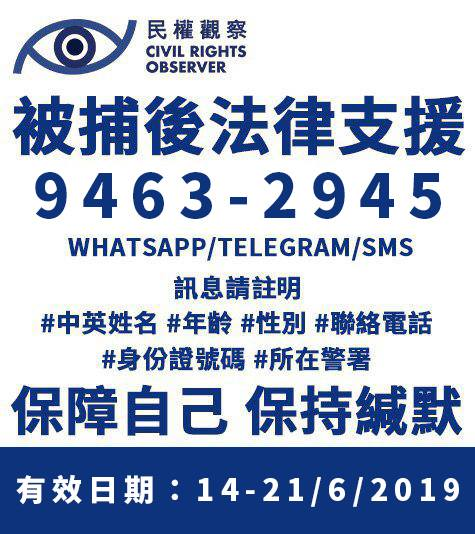
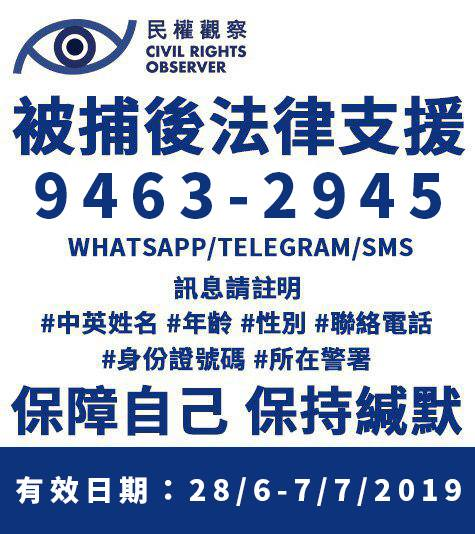
Update arrest section and add translated videos

Changed region(s): [[0.0295, 0.8689, 0.9726, 0.9588]]

diff --git a/index-jp.html b/index-jp.html
@@ -2,7 +2,7 @@
 function gtag(){dataLayer.push(arguments);}
 gtag('js', new Date());
 gtag('config', 'UA-82689420-5');
-</script></head><body><div id="fb-root" class="text-center"><script async defer crossorigin="anonymous" src="https://connect.facebook.net/en_US/sdk.js#xfbml=1&amp;version=v3.3"></script></div><div class="jumbotron text-light position-relative d-flex align-items-center"><div class="container"><h1 class="mb-2 text-center font-weight-bolder">この法律が審議を通過したら</h1><h1 class="mb-4 text-center font-weight-bolder">香港は終わりです</h1><div class="mb-3 text-center"><a href="/" class="btn btn-info py-1 mr-1">中文</a><a href="/index-en.html" class="btn btn-info py-1 mr-1">English</a><a href="/index-ko.html" class="btn btn-info py-1 mr-1">한국어</a></div><div class="text-center"><div data-href="https://www.facebook.com/g0vhk.io" data-width="" data-layout="button_count" data-action="like" data-size="large" data-show-faces="true" data-share="false" class="fb-like"></div></div><hr class="bg-white"><p class="text-justify">一度この「犯罪人引渡し条約」が審議を通過したら、香港人、そして<b><u>香港に滞在している誰もが</u></b>中国の法律によって取り締まられてしまいます。あなたが中国ではなく香港にいたとしても、です。あなたは人権を侵害され、不当に中国へ送られてしまうかもしれません。</p><div class="position-absolute d-flex flex-column align-items-center btn-scroll-down-wrapper"><div class="btn-scroll-down"><div class="chevron"></div><div class="chevron"></div><div class="chevron"></div></div><div class="text">下へスクロールしてね</div></div></div></div><div class="section section-why bg-info text-light"><div class="container"><div class="row"><div class="col-md-6 order-0 order-md-0"><h2 class="text-center">民間人権陣線 <br> 6.16 集会</h2></div><div class="col-md-6 order-2 order-md-0"><h2 class="text-center mt-5 mt-md-0">逮捕された場合の法律サポート</h2></div><div class="col-md-6 order-1 order-md-2"><img src="/img/616.png" class="w-100"></div><div class="col-md-6 order-4"><img src="/img/legal_support.jpg" class="w-100"></div></div></div></div><div class="section section-telegram bg-telegram text-light"><div class="inner"><div class="text-center"><h2>Telegram <img src="/img/telegram.png" width="128"></h2></div><div class="text-center"><a href="https://t.me/CivilHumanRightsFront" class="btn btn-warning link fa-icon">民間人権陣線情報チャンネル </a><a href="https://t.me/joinchat/AAAAAFKLi0fTZiWg0bGwjA" class="btn btn-warning link fa-icon">[反送中]Fact Check Channel </a><a href="https://t.me/hkSupport_bot" class="btn btn-warning link fa-icon">hkSupport</a><a href="https://t.me/g0vhk" class="btn btn-warning link fa-icon"> g0vhk</a></div></div></div><div class="section section-learn-more bg-danger py-4"><div class="text-center text-white">⬇⬇⬇ 関連情報</div></div><div class="section section-why bg-light"><div class="inner"><div class="text-center"><h2>中国への引き渡し条例に反対するべき理由</h2></div><p>中国への引き渡し条例改正案が可決されれば、香港で中国の法律を犯した場合に中国へ送還される可能性があります。つまり、香港在住者および香港に滞在する人々が不公平な裁判にかけられることになります。</p><ul><li>今回の改正案では、<b>企業やジャーナリスト、観光客を含めた香港に滞在する全ての人 </b>が対象となります。<ul><li>改正案が可決されれば、香港に滞在している全ての人たちが中国本土に送還される可能性があります。例えば、中国国家にとって不都合な報道をするジャーナリストが中国国内でPRC警察に捕まらずとも、香港に帰った際に逮捕され、中国本土へと送還される可能性があります。</li></ul></li><li>中国政府は<b>政治犯に対して、政治的な活動以外の容疑で拘束する </b>場合がほとんどです。<ul><li>政治的書籍を扱う銅鑼湾書店のオーナーである桂民海氏は交通事故の罪で起訴され、逮捕されました。</li><li>中国の現代美術家であり、社会評論家であるAi Weiwei氏は亡命を前にして、脱税の容疑で拘留されました。</li><li>中国の現代美術家であり、社会評論家であるアイ・ウェイウェイ氏は亡命を前にして、脱税の容疑で拘留されました。</li></ul></li><li>香港立法会の反体派の議員は、<b>公平な裁判 </b>が行われないことを理由として、送還について反対しています。</li><li>改正案が可決されたからといって、Chan Tong-kaiのような事例が無くなるわけではありません。</li><li>改正案が可決されても、陳同佳のような事例が無くなるわけではありません。<ul><li>台湾には殺人事件の容疑者を中国本土に引き渡す<b>義務</b>はありません。</li><li>香港から台湾に一時的または長期的に容疑者の引き渡しを要求することは原則的には可能です。行政院大陸委員会は今回の改正案が可決されれば、台湾人が香港への旅行/滞在時に中国へ引き渡される可能性があるとしています。今回の改正案が否決されるまでは台湾政府は陳同佳の引き渡しを要求しません。しかし、今回の改正案が可決されれば香港政府が陳氏を台湾に引き渡すことは不可能になってしまいます。</li></ul></li></ul></div></div><div class="section section-video bg-warning"><div class="inner"><div class="text-center"><h2>動画</h2></div><br><div class="row mb-5 pb-4"><div class="col-md col-12 mb-md-0 mb-3"><div style="background:url(img/video/video1.png) center center no-repeat #444;background-size:cover" class="media-preview"></div></div><div class="col-md col-12"><h4>八十後浪</h4><div class="sep light-dark gap-sm"></div><ul><li><a href="https://www.facebook.com/watch/?v=630724980778241" target="_blank" class="fa-icon">【香港人・六月九．立ち上がれ！】</a></li><li><a href="https://www.facebook.com/watch/?v=365026624364523" target="_blank" class="fa-icon">【香港人．六月九．立ち上がれ－法律篇（一）】</a></li><li><a href="https://www.facebook.com/watch/?v=2111174248981335" target="_blank" class="fa-icon">【香港人．六月九．立ち上がれ－法律篇（二）】</a></li><li><a href="https://www.facebook.com/watch/?v=612761825868585" target="_blank" class="fa-icon">【香港人・六月九・立ち上がれ－ビジネス篇】</a></li></ul></div></div><div class="row mb-5 pb-4"><div class="col-md col-12 mb-md-0 mb-3"><h4>思言財雋</h4><div class="sep light-dark gap-sm"></div><ul><li><a href="https://www.facebook.com/watch/?v=450338242396589" target="_blank" class="fa-icon">【思言財雋よりこの「犯罪人引渡し条例」に反対するデモ運動に参加するよう呼びかけています】</a></li></ul></div><div class="col-md col-12"><div style="background:url(img/video/thumbnail4.png) center center no-repeat #444;background-size:cover" class="media-preview"></div></div></div><div class="row"><div class="col-md col-12 mb-md-0 mb-3"><div style="background:url(img/video/thumbnail6.png) center center no-repeat #444;background-size:cover" class="media-preview"></div></div><div class="col-md col-12"><h4>法政匯思</h4><div class="sep light-dark gap-sm"></div><ul><li><a href="https://www.facebook.com/hkplg/videos/2511920872171931/" target="_blank" class="fa-icon">To international community in Hong Kong and around the world, we need you urgently!</a></li><li><a href="https://www.facebook.com/watch/?v=902872436725462" target="_blank" class="fa-icon">【China’s Trojan horse: Hong Kong’s new extradition arrangement puts foreigners at risk】</a></li></ul></div></div></div></div><div id="news" class="section section-news bg-dark text-light"><div class="container"><h1 class="text-center mb-0">最新情報</h1><p class="lead text-center mb-5"><a href="https://www.collaction.hk/s/extradition/objective" target="blank"><small>Powered by Collaction</small></a></p><div id="articles" class="pt-3"></div><div class="text-center"><button id="load-more" class="btn btn-sm btn-light">もっと見せて</button></div></div></div><div class="section section-petition bg-danger text-light"><div class="inner text-center"><script>fetch('https://sign-counter-prod-antiextradition-y3b3kusenf.web.kintohub.com/list?checked=true')
+</script></head><body><div id="fb-root" class="text-center"><script async defer crossorigin="anonymous" src="https://connect.facebook.net/en_US/sdk.js#xfbml=1&amp;version=v3.3"></script></div><div class="jumbotron text-light position-relative d-flex align-items-center"><div class="container"><h1 class="mb-2 text-center font-weight-bolder">この法律が審議を通過したら</h1><h1 class="mb-4 text-center font-weight-bolder">香港は終わりです</h1><div class="mb-3 text-center"><a href="/" class="btn btn-info py-1 mr-1">中文</a><a href="/index-en.html" class="btn btn-info py-1 mr-1">English</a><a href="/index-ko.html" class="btn btn-info py-1 mr-1">한국어</a></div><div class="text-center"><div data-href="https://www.facebook.com/g0vhk.io" data-width="" data-layout="button_count" data-action="like" data-size="large" data-show-faces="true" data-share="false" class="fb-like"></div></div><hr class="bg-white"><p class="text-justify">一度この「犯罪人引渡し条約」が審議を通過したら、香港人、そして<b><u>香港に滞在している誰もが</u></b>中国の法律によって取り締まられてしまいます。あなたが中国ではなく香港にいたとしても、です。あなたは人権を侵害され、不当に中国へ送られてしまうかもしれません。</p><div class="position-absolute d-flex flex-column align-items-center btn-scroll-down-wrapper"><div class="btn-scroll-down"><div class="chevron"></div><div class="chevron"></div><div class="chevron"></div></div><div class="text">下へスクロールしてね</div></div></div></div><div class="section section-why bg-info text-light"><div class="container"><div class="row"><div class="col-md-6 order-0 order-md-0"><h2 class="text-center">民間人権陣線 <br> 7.1 集会</h2></div><div class="col-md-6 order-2 order-md-0"><h2 class="text-center mt-5 mt-md-0">逮捕された場合の法律サポート</h2></div><div class="col-md-6 order-1 order-md-2"><img src="/img/71.jpg" class="w-100"></div><div class="col-md-6 order-4"><img src="/img/legal_support.jpg" class="w-100"></div></div></div></div><div class="section section-telegram bg-telegram text-light"><div class="inner"><div class="text-center"><h2>Telegram <img src="/img/telegram.png" width="128"></h2></div><div class="text-center"><a href="https://t.me/CivilHumanRightsFront" class="btn btn-warning link fa-icon">民間人権陣線情報チャンネル </a><a href="https://t.me/joinchat/AAAAAFKLi0fTZiWg0bGwjA" class="btn btn-warning link fa-icon">[反送中]Fact Check Channel </a><a href="https://t.me/hkSupport_bot" class="btn btn-warning link fa-icon">hkSupport</a><a href="https://t.me/g0vhk" class="btn btn-warning link fa-icon"> g0vhk</a></div></div></div><div class="section section-learn-more bg-danger py-4"><div class="text-center text-white">⬇⬇⬇ 関連情報</div></div><div class="section section-why bg-light"><div class="inner"><div class="text-center"><h2>中国への引き渡し条例に反対するべき理由</h2></div><p>中国への引き渡し条例改正案が可決されれば、香港で中国の法律を犯した場合に中国へ送還される可能性があります。つまり、香港在住者および香港に滞在する人々が不公平な裁判にかけられることになります。</p><ul><li>今回の改正案では、<b>企業やジャーナリスト、観光客を含めた香港に滞在する全ての人 </b>が対象となります。<ul><li>改正案が可決されれば、香港に滞在している全ての人たちが中国本土に送還される可能性があります。例えば、中国国家にとって不都合な報道をするジャーナリストが中国国内でPRC警察に捕まらずとも、香港に帰った際に逮捕され、中国本土へと送還される可能性があります。</li></ul></li><li>中国政府は<b>政治犯に対して、政治的な活動以外の容疑で拘束する </b>場合がほとんどです。<ul><li>政治的書籍を扱う銅鑼湾書店のオーナーである桂民海氏は交通事故の罪で起訴され、逮捕されました。</li><li>中国の現代美術家であり、社会評論家であるAi Weiwei氏は亡命を前にして、脱税の容疑で拘留されました。</li><li>中国の現代美術家であり、社会評論家であるアイ・ウェイウェイ氏は亡命を前にして、脱税の容疑で拘留されました。</li></ul></li><li>香港立法会の反体派の議員は、<b>公平な裁判 </b>が行われないことを理由として、送還について反対しています。</li><li>改正案が可決されたからといって、Chan Tong-kaiのような事例が無くなるわけではありません。</li><li>改正案が可決されても、陳同佳のような事例が無くなるわけではありません。<ul><li>台湾には殺人事件の容疑者を中国本土に引き渡す<b>義務</b>はありません。</li><li>香港から台湾に一時的または長期的に容疑者の引き渡しを要求することは原則的には可能です。行政院大陸委員会は今回の改正案が可決されれば、台湾人が香港への旅行/滞在時に中国へ引き渡される可能性があるとしています。今回の改正案が否決されるまでは台湾政府は陳同佳の引き渡しを要求しません。しかし、今回の改正案が可決されれば香港政府が陳氏を台湾に引き渡すことは不可能になってしまいます。</li></ul></li></ul></div></div><div class="section section-video bg-warning"><div class="inner"><div class="text-center"><h2>動画</h2></div><br><div class="row mb-5 pb-4"><div class="col-md col-12 mb-md-0 mb-3"><div style="background:url(img/video/video1.png) center center no-repeat #444;background-size:cover" class="media-preview"></div></div><div class="col-md col-12"><h4>八十後浪</h4><div class="sep light-dark gap-sm"></div><ul><li><a href="https://www.facebook.com/watch/?v=630724980778241" target="_blank" class="fa-icon">【香港人・六月九．立ち上がれ！】</a></li><li><a href="https://www.facebook.com/watch/?v=365026624364523" target="_blank" class="fa-icon">【香港人．六月九．立ち上がれ－法律篇（一）】</a></li><li><a href="https://www.facebook.com/watch/?v=2111174248981335" target="_blank" class="fa-icon">【香港人．六月九．立ち上がれ－法律篇（二）】</a></li><li><a href="https://www.facebook.com/watch/?v=612761825868585" target="_blank" class="fa-icon">【香港人・六月九・立ち上がれ－ビジネス篇】</a></li></ul></div></div><div class="row mb-5 pb-4"><div class="col-md col-12 mb-md-0 mb-3"><h4>思言財雋</h4><div class="sep light-dark gap-sm"></div><ul><li><a href="https://www.facebook.com/watch/?v=450338242396589" target="_blank" class="fa-icon">【思言財雋よりこの「犯罪人引渡し条例」に反対するデモ運動に参加するよう呼びかけています】</a></li></ul></div><div class="col-md col-12"><div style="background:url(img/video/thumbnail4.png) center center no-repeat #444;background-size:cover" class="media-preview"></div></div></div><div class="row"><div class="col-md col-12 mb-md-0 mb-3"><div style="background:url(img/video/thumbnail6.png) center center no-repeat #444;background-size:cover" class="media-preview"></div></div><div class="col-md col-12"><h4>法政匯思</h4><div class="sep light-dark gap-sm"></div><ul><li><a href="https://www.facebook.com/hkplg/videos/2511920872171931/" target="_blank" class="fa-icon">To international community in Hong Kong and around the world, we need you urgently!</a></li><li><a href="https://www.facebook.com/watch/?v=902872436725462" target="_blank" class="fa-icon">【China’s Trojan horse: Hong Kong’s new extradition arrangement puts foreigners at risk】</a></li></ul></div></div></div></div><div id="news" class="section section-news bg-dark text-light"><div class="container"><h1 class="text-center mb-0">最新情報</h1><p class="lead text-center mb-5"><a href="https://www.collaction.hk/s/extradition/objective" target="blank"><small>Powered by Collaction</small></a></p><div id="articles" class="pt-3"></div><div class="text-center"><button id="load-more" class="btn btn-sm btn-light">もっと見せて</button></div></div></div><div class="section section-petition bg-danger text-light"><div class="inner text-center"><script>fetch('https://sign-counter-prod-antiextradition-y3b3kusenf.web.kintohub.com/list?checked=true')
 .then(response => response.json())
 .then(signStat => {
   document.getElementById("signed_count").innerHTML = signStat.meta.total.toString().replace(/\B(?=(\d{3})+(?!\d))/g, ",")

diff --git a/index-en.html b/index-en.html
@@ -2,7 +2,7 @@
 function gtag(){dataLayer.push(arguments);}
 gtag('js', new Date());
 gtag('config', 'UA-82689420-5');
-</script></head><body><div id="fb-root" class="text-center"><script async defer crossorigin="anonymous" src="https://connect.facebook.net/en_US/sdk.js#xfbml=1&amp;version=v3.3"></script></div><div class="jumbotron text-light position-relative d-flex align-items-center"><div class="container"><h1 class="mb-2 text-center font-weight-bolder">Once It Passes</h1><h1 class="mb-4 text-center font-weight-bolder">Hong Kong Dies</h1><div class="mb-3 text-center"><a href="/" class="btn btn-info py-1 mr-1">中文</a><a href="/index-jp.html" class="btn btn-info py-1 mr-1">日本語</a><a href="/index-ko.html" class="btn btn-info py-1 mr-1">한국어</a></div><div class="text-center"><div data-href="https://www.facebook.com/g0vhk.io" data-width="" data-layout="button_count" data-action="like" data-size="large" data-show-faces="true" data-share="false" class="fb-like"></div></div><hr class="bg-white"><p class="text-justify">Once the "Fugitive Offenders Ordinance Amendment" is passed, Hongkongers and <b><uANYONE>who stays in Hong Kong</uANYONE></b> would be accused of the laws of China, even they are physically in Hong Kong. They would be persecuted and sent to China for unjust hearings.</p><div class="position-absolute d-flex flex-column align-items-center btn-scroll-down-wrapper"><div class="btn-scroll-down"><div class="chevron"></div><div class="chevron"></div><div class="chevron"></div></div><div class="text">Scroll Down</div></div></div></div><div class="section section-why bg-info text-light"><div class="container"><div class="row"><div class="col-md-6 order-0 order-md-0"><h2 class="text-center">Civil Human Right Front <br> 6.16 March</h2></div><div class="col-md-6 order-2 order-md-0"><h2 class="text-center mt-5 mt-md-0">Legal Support after Arrest</h2></div><div class="col-md-6 order-1 order-md-2"><img src="/img/616.png" class="w-100"></div><div class="col-md-6 order-4"><img src="/img/legal_support.jpg" class="w-100"></div></div></div></div><div class="section section-telegram bg-telegram text-light"><div class="inner"><div class="text-center"><h2>Telegram <img src="/img/telegram.png" width="128"></h2></div><div class="text-center"><a href="https://t.me/CivilHumanRightsFront" class="btn btn-warning link fa-icon">Civil Human Right Front information channel </a><a href="https://t.me/joinchat/AAAAAFKLi0fTZiWg0bGwjA" class="btn btn-warning link fa-icon">[Anti FOO]Fact Check Channel </a><a href="https://t.me/hkSupport_bot" class="btn btn-warning link fa-icon">hkSupport</a><a href="https://t.me/g0vhk" class="btn btn-warning link fa-icon"> g0vhk</a></div></div></div><div class="section section-learn-more bg-danger py-4"><div class="text-center text-white">⬇⬇⬇ Scroll down for more details</div></div><div class="section section-why bg-light"><div class="inner"><div class="text-center"><h2>Why should you oppose the “Fugitive Offenders Ordinance Amendment” (FOO Amendment)</h2></div><p>Once the amendment is adopted, <b>anyone</b> could be accused to have violated Chinese laws in Hong Kong and extradited to China. <b>Hong Konger and those staying in Hong Kong</b> would then face unfair trials.</p><ul><li>FOO Amend will affect everyone in Hong Kong, <b>including the businesses, journalists, and foreign visitors. </b><ul><li>Once FOO Amendment is adopted, any foreigners visiting Hong Kong will be subjected to the new law and can be extradited to China Mainland. Moreover, when journalists report on politically sensitive news stories in China Mainland, even if they were not taken away by PRC police, they could be extradited to China after they made it back to Hong Kong.</li></ul></li><li>China often uses <b>non-political charges against political dissidents. </b><ul><li>Causeway Bay Books owner Gui Minhai was accused of hit and run in a traffic incident and was arrested.</li><li>Ai Weiwei, an artist active in rights advocacy, was accused of tax evasion before his exile and was detained.</li></ul></li><li>Anti-establishment Councilors in Hong Kong’s Legislative Council reject extraditions, given the <b> lack of fair trials in China. </b></li><li>The amendment is not a solution to the case of Chan Tong-kai<ul><li>Taiwan has <b>no obligation</b> to extradite murder suspects to China Mainland.</li><li>It is absolutely possible for Hong Kong to enter into a one-time or long term extradition arrangement with Taiwan. Taiwan’s Mainland Affairs Council has stated that the amendment opens the possibility of Taiwan citizens traveling to, or staying in, Hong Kong to be extradited to China.</li><li>Before that threat is eliminated, Taiwan would not request the extradition of Chan Tong-kai. In other words, even if the amendment is adopted, it would not be possible for the Hong Kong government to extradite Chan to Taiwan.</li></ul></li></ul></div></div><div class="section section-why bg-warning"><div class="inner"><div class="text-center"><h2>Video</h2></div><br><div class="row"><div class="col"><div style="background:url(img/video/video1.png) center center no-repeat #444;background-size:cover" class="media-preview"></div></div><div class="col"><h4>80s Momentum</h4><div class="sep light-dark gap-sm"></div><ul><li><a href="https://www.facebook.com/watch/?v=630724980778241" target="_blank">【香港人・六月九．行出嚟！】</a></li><li><a href="https://www.facebook.com/watch/?v=365026624364523" target="_blank">【香港人．六月九．行出嚟－法律篇（一）】</a></li><li><a href="https://www.facebook.com/watch/?v=2111174248981335" target="_blank">【香港人．六月九．行出嚟－法律篇（二）】</a></li><li><a href="https://www.facebook.com/watch/?v=612761825868585" target="_blank">【香港人・六月九・行出嚟－商界篇】</a></li></ul></div></div><div class="row"><div class="col"><br><br><br></div></div><div class="row"><div class="col"><h4>Financier Conscience</h4><div class="sep light-dark gap-sm"></div><ul><li><a href="https://www.facebook.com/watch/?v=450338242396589" target="_blank">【思言財雋呼籲你參加反「送中」大遊行】</a></li></ul></div><div class="col"><div style="background:url(img/video/thumbnail4.png) center center no-repeat #444;background-size:cover" class="media-preview"></div></div></div><div class="row"><div class="col"><br><br><br></div></div><div class="row"><div class="col"><div style="background:url(img/video/thumbnail5.png) center center no-repeat #444;background-size:cover" class="media-preview"></div></div><div class="col"><h4>Progressive Lawyers Group</h4><div class="sep light-dark gap-sm"></div><ul><li><a href="https://www.facebook.com/watch/?v=902872436725462" target="_blank">【China’s Trojan horse: Hong Kong’s new extradition arrangement puts foreigners at risk】</a></li></ul></div></div></div></div><div id="news" class="section section-news bg-dark text-light"><div class="container"><h1 class="text-center mb-0">Latest News</h1><p class="lead text-center mb-5"><a href="https://www.collaction.hk/s/extradition/objective" target="blank"><small>Powered by Collaction</small></a></p><div id="articles" class="pt-3"></div><div class="text-center"><button id="load-more" class="btn btn-sm btn-light">Load More</button></div></div></div><div class="section section-petition bg-danger text-light"><div class="inner text-center"><script>fetch('https://sign-counter-prod-antiextradition-y3b3kusenf.web.kintohub.com/list?checked=true')
+</script></head><body><div id="fb-root" class="text-center"><script async defer crossorigin="anonymous" src="https://connect.facebook.net/en_US/sdk.js#xfbml=1&amp;version=v3.3"></script></div><div class="jumbotron text-light position-relative d-flex align-items-center"><div class="container"><h1 class="mb-2 text-center font-weight-bolder">Once It Passes</h1><h1 class="mb-4 text-center font-weight-bolder">Hong Kong Dies</h1><div class="mb-3 text-center"><a href="/" class="btn btn-info py-1 mr-1">中文</a><a href="/index-jp.html" class="btn btn-info py-1 mr-1">日本語</a><a href="/index-ko.html" class="btn btn-info py-1 mr-1">한국어</a></div><div class="text-center"><div data-href="https://www.facebook.com/g0vhk.io" data-width="" data-layout="button_count" data-action="like" data-size="large" data-show-faces="true" data-share="false" class="fb-like"></div></div><hr class="bg-white"><p class="text-justify">Once the "Fugitive Offenders Ordinance Amendment" is passed, Hongkongers and <b><uANYONE>who stays in Hong Kong</uANYONE></b> would be accused of the laws of China, even they are physically in Hong Kong. They would be persecuted and sent to China for unjust hearings.</p><div class="position-absolute d-flex flex-column align-items-center btn-scroll-down-wrapper"><div class="btn-scroll-down"><div class="chevron"></div><div class="chevron"></div><div class="chevron"></div></div><div class="text">Scroll Down</div></div></div></div><div class="section section-why bg-info text-light"><div class="container"><div class="row"><div class="col-md-6 order-0 order-md-0"><h2 class="text-center">Civil Human Right Front <br> 7.1 March</h2></div><div class="col-md-6 order-2 order-md-0"><h2 class="text-center mt-5 mt-md-0">Legal Support after Arrest</h2></div><div class="col-md-6 order-1 order-md-2"><img src="/img/71.jpg" class="w-100"></div><div class="col-md-6 order-4"><img src="/img/legal_support.jpg" class="w-100"></div></div></div></div><div class="section section-why bg-warning"><div class="text-center"><h2>Translated Videos</h2></div><br><div class="row"><div class="col"><h5>Cantonese</h5><a href="https://www.youtube.com/watch?v=Iwxt5qH2Vto" target="_blank"><img src="img/video/i18n/ch.jpg" style="max-width:100%"></a></div><div class="col"><h5>English</h5><a href="https://www.youtube.com/watch?v=RXAHywPLaD8" target="_blank"><img src="img/video/i18n/en.jpg" style="max-width:100%"></a></div><div class="col"><h5>Japanese</h5><a href="https://www.youtube.com/watch?v=KH4FjILxiUM" target="_blank"><img src="img/video/i18n/jp.jpg" style="max-width:100%"></a></div><div class="col"><h5>Taiwanese Mandarin</h5><a href="https://www.youtube.com/watch?v=XMRs0RQpBIo" target="_blank"><img src="img/video/i18n/tw.jpg" style="max-width:100%"></a></div></div><div class="row"><div class="col"><h5>French</h5><a href="https://www.youtube.com/watch?v=606l0zgq2xk" target="_blank"><img src="img/video/i18n/fr.jpg" style="max-width:100%"></a></div><div class="col"><h5>German</h5><a href="https://www.youtube.com/watch?v=VC8Btg8xwI4" target="_blank"><img src="img/video/i18n/ger.jpg" style="max-width:100%"></a></div><div class="col"><h5>Italian</h5><a href="https://www.youtube.com/watch?v=movMqfIioL4" target="_blank"><img src="img/video/i18n/it.jpg" style="max-width:100%"></a></div><div class="col"></div></div><div class="row"><div class="col"><div class="text-center"><br><br><h3><a href="https://www.youtube.com/channel/UCKnyEeutNfjo7khaI78jdew/videos" target="_blank">More</a></h3></div></div></div></div><div class="section section-telegram bg-telegram text-light"><div class="inner"><div class="text-center"><h2>Telegram <img src="/img/telegram.png" width="128"></h2></div><div class="text-center"><a href="https://t.me/CivilHumanRightsFront" class="btn btn-warning link fa-icon">Civil Human Right Front information channel </a><a href="https://t.me/joinchat/AAAAAFKLi0fTZiWg0bGwjA" class="btn btn-warning link fa-icon">[Anti FOO]Fact Check Channel </a><a href="https://t.me/hkSupport_bot" class="btn btn-warning link fa-icon">hkSupport</a><a href="https://t.me/g0vhk" class="btn btn-warning link fa-icon"> g0vhk</a></div></div></div><div class="section section-learn-more bg-danger py-4"><div class="text-center text-white">⬇⬇⬇ Scroll down for more details</div></div><div class="section section-why bg-light"><div class="inner"><div class="text-center"><h2>Why should you oppose the “Fugitive Offenders Ordinance Amendment” (FOO Amendment)</h2></div><p>Once the amendment is adopted, <b>anyone</b> could be accused to have violated Chinese laws in Hong Kong and extradited to China. <b>Hong Konger and those staying in Hong Kong</b> would then face unfair trials.</p><ul><li>FOO Amend will affect everyone in Hong Kong, <b>including the businesses, journalists, and foreign visitors. </b><ul><li>Once FOO Amendment is adopted, any foreigners visiting Hong Kong will be subjected to the new law and can be extradited to China Mainland. Moreover, when journalists report on politically sensitive news stories in China Mainland, even if they were not taken away by PRC police, they could be extradited to China after they made it back to Hong Kong.</li></ul></li><li>China often uses <b>non-political charges against political dissidents. </b><ul><li>Causeway Bay Books owner Gui Minhai was accused of hit and run in a traffic incident and was arrested.</li><li>Ai Weiwei, an artist active in rights advocacy, was accused of tax evasion before his exile and was detained.</li></ul></li><li>Anti-establishment Councilors in Hong Kong’s Legislative Council reject extraditions, given the <b> lack of fair trials in China. </b></li><li>The amendment is not a solution to the case of Chan Tong-kai<ul><li>Taiwan has <b>no obligation</b> to extradite murder suspects to China Mainland.</li><li>It is absolutely possible for Hong Kong to enter into a one-time or long term extradition arrangement with Taiwan. Taiwan’s Mainland Affairs Council has stated that the amendment opens the possibility of Taiwan citizens traveling to, or staying in, Hong Kong to be extradited to China.</li><li>Before that threat is eliminated, Taiwan would not request the extradition of Chan Tong-kai. In other words, even if the amendment is adopted, it would not be possible for the Hong Kong government to extradite Chan to Taiwan.</li></ul></li></ul></div></div><div class="section section-why bg-warning"><div class="inner"><div class="text-center"><h2>Video</h2></div><br><div class="row"><div class="col"><div style="background:url(img/video/video1.png) center center no-repeat #444;background-size:cover" class="media-preview"></div></div><div class="col"><h4>80s Momentum</h4><div class="sep light-dark gap-sm"></div><ul><li><a href="https://www.facebook.com/watch/?v=630724980778241" target="_blank">【香港人・六月九．行出嚟！】</a></li><li><a href="https://www.facebook.com/watch/?v=365026624364523" target="_blank">【香港人．六月九．行出嚟－法律篇（一）】</a></li><li><a href="https://www.facebook.com/watch/?v=2111174248981335" target="_blank">【香港人．六月九．行出嚟－法律篇（二）】</a></li><li><a href="https://www.facebook.com/watch/?v=612761825868585" target="_blank">【香港人・六月九・行出嚟－商界篇】</a></li></ul></div></div><div class="row"><div class="col"><br><br><br></div></div><div class="row"><div class="col"><h4>Financier Conscience</h4><div class="sep light-dark gap-sm"></div><ul><li><a href="https://www.facebook.com/watch/?v=450338242396589" target="_blank">【思言財雋呼籲你參加反「送中」大遊行】</a></li></ul></div><div class="col"><div style="background:url(img/video/thumbnail4.png) center center no-repeat #444;background-size:cover" class="media-preview"></div></div></div><div class="row"><div class="col"><br><br><br></div></div><div class="row"><div class="col"><div style="background:url(img/video/thumbnail5.png) center center no-repeat #444;background-size:cover" class="media-preview"></div></div><div class="col"><h4>Progressive Lawyers Group</h4><div class="sep light-dark gap-sm"></div><ul><li><a href="https://www.facebook.com/watch/?v=902872436725462" target="_blank">【China’s Trojan horse: Hong Kong’s new extradition arrangement puts foreigners at risk】</a></li></ul></div></div></div></div><div id="news" class="section section-news bg-dark text-light"><div class="container"><h1 class="text-center mb-0">Latest News</h1><p class="lead text-center mb-5"><a href="https://www.collaction.hk/s/extradition/objective" target="blank"><small>Powered by Collaction</small></a></p><div id="articles" class="pt-3"></div><div class="text-center"><button id="load-more" class="btn btn-sm btn-light">Load More</button></div></div></div><div class="section section-petition bg-danger text-light"><div class="inner text-center"><script>fetch('https://sign-counter-prod-antiextradition-y3b3kusenf.web.kintohub.com/list?checked=true')
 .then(response => response.json())
 .then(signStat => {
   document.getElementById("signed_count").innerHTML = signStat.meta.total.toString().replace(/\B(?=(\d{3})+(?!\d))/g, ",")

diff --git a/index.html b/index.html
@@ -2,7 +2,7 @@
 function gtag(){dataLayer.push(arguments);}
 gtag('js', new Date());
 gtag('config', 'UA-82689420-5');
-</script></head><body><div id="fb-root" class="text-center"><script async defer crossorigin="anonymous" src="https://connect.facebook.net/en_US/sdk.js#xfbml=1&amp;version=v3.3"></script></div><div class="jumbotron text-light position-relative d-flex align-items-center"><div class="container"><h1 class="mb-2 text-center font-weight-bolder">送中惡法一過</h1><h1 class="mb-4 text-center font-weight-bolder">香港 ENDGAME</h1><div class="mb-3 text-center"><a href="/index-en.html" class="btn btn-info py-1 mr-1">English</a><a href="/index-jp.html" class="btn btn-info py-1 mr-1">日本語</a><a href="/index-ko.html" class="btn btn-info py-1 mr-1">한국어</a></div><div class="text-center"><div data-href="https://www.facebook.com/g0vhk.io" data-width="" data-layout="button_count" data-action="like" data-size="large" data-show-faces="true" data-share="false" class="fb-like"></div></div><hr class="bg-white"><p class="text-justify">一旦通過了《逃犯條例》修訂，香港人及<b><u>任何逗留在香港的人</u></b>都有機會被指違反中國法律，被引渡返中國並將會在缺乏公平審訊的情況下受審。</p><div class="position-absolute d-flex flex-column align-items-center btn-scroll-down-wrapper"><div class="btn-scroll-down"><div class="chevron"></div><div class="chevron"></div><div class="chevron"></div></div><div class="text">向下滑動</div></div></div></div><div class="section section-why bg-info text-light"><div class="container"><div class="row"><div class="col-md-6 order-0 order-md-0"><h2 class="text-center">民間人權陣線 <br> 6.16 遊行</h2></div><div class="col-md-6 order-2 order-md-0"><h2 class="text-center mt-5 mt-md-0">被捕後法律支援</h2></div><div class="col-md-6 order-1 order-md-2"><img src="/img/616.png" class="w-100"></div><div class="col-md-6 order-3"><img src="/img/legal_support.jpg" class="w-100"></div></div></div></div><div class="section section-telegram bg-telegram text-light"><div class="inner"><div class="text-center"><h2>Telegram <img src="/img/telegram.png" width="128"></h2></div><div class="text-center"><a href="https://t.me/CivilHumanRightsFront" class="btn btn-warning link fa-icon">民間人權陣線資訊頻道 </a><a href="https://t.me/joinchat/AAAAAFKLi0fTZiWg0bGwjA" class="btn btn-warning link fa-icon">[反送中]Fact Check Channel </a><a href="https://t.me/hkSupport_bot" class="btn btn-warning link fa-icon">hkSupport</a><a href="https://t.me/g0vhk" class="btn btn-warning link fa-icon"> g0vhk</a></div></div></div><div class="section section-learn-more bg-danger py-4"><div class="text-center text-white">⬇⬇⬇ 往下了解更多</div></div><div class="section section-why bg-light"><div class="inner"><div class="text-center"><h2>為什麼要反對《逃犯條例》</h2></div><p>一旦通過了《逃犯條例》修訂，<b>任何人</b>在香港都有機會被指違反中國法律，被引渡返中國。<b>香港人及任何逗留在香港的人</b>將會在缺乏公平審訊的情況下受審。</p><ul><li>《逃犯條例》修訂影響香港各界，<b>包括商界、新聞界，以及來港旅客。</b><ul><li>一旦通過修訂，任何入境香港的旅客都有機會被引渡返中國。此外，記者如果在中國採訪政治敏感的新聞，就算沒有被公安帶走，這些記者返香港後，有可能再被引渡返中國。</li></ul></li><li>中國經常用<b>非政治罪名去包裝事件，繼而拘捕政治犯。</b><ul><li>中國指銅鑼灣書店店主桂民海撞車撞死人後潛逃，因而捉拿他。</li><li>維權藝術家艾未未流亡外國前，中國指他逃稅，因而關押他。</li></ul></li><li>立法會的非建制派議員一直拒絕引渡逃犯因為<b>中國並無「公平審訊」</b></li><li>《逃犯條例》修訂不能解決陳同佳案<ul><li>台灣發生的凶殺案，是<b>不需要向中國移交逃犯</b></li><li>香港絕對可以和台灣簽一次性或是長期移交逃犯協議。台灣陸委會也表明，《逃犯條例》修例有可能令赴港或在港台灣人被移送到中國，在這項威脅未能解除時，台灣不會同意移交陳同佳。換言之，即使《逃犯條例》通過，港府也難以把陳同佳送返台灣受審。</li><li>在台灣，陸委會表明不會在《逃犯條例》修法前提下與港府協商，未排除赴港或在港台灣人被移送到大陸的威脅之前，即使香港通過修例，台灣政府亦不會同意移交陳同佳。 </li></ul></li></ul></div></div><div class="section section-video bg-warning"><div class="inner"><div class="text-center"><h2>影片</h2></div><br><div class="row mb-5 pb-4"><div class="col-md col-12 mb-md-0 mb-3"><div style="background:url(img/video/thumbnail1.png) center center no-repeat #444;background-size:cover" class="media-preview"></div></div><div class="col-md col-12"><h4>八十後浪</h4><div class="sep light-dark gap-sm"></div><ul><li><a href="https://www.facebook.com/watch/?v=630724980778241" target="_blank" class="fa-icon">【香港人・六月九．行出嚟！】</a></li><li><a href="https://www.facebook.com/watch/?v=365026624364523" target="_blank" class="fa-icon">【香港人．六月九．行出嚟－法律篇（一）】</a></li><li><a href="https://www.facebook.com/watch/?v=2111174248981335" target="_blank" class="fa-icon">【香港人．六月九．行出嚟－法律篇（二）】</a></li><li><a href="https://www.facebook.com/watch/?v=612761825868585" target="_blank" class="fa-icon">【香港人・六月九・行出嚟－商界篇】</a></li></ul></div></div><div class="row mb-5 pb-4"><div class="col-md col-12 mb-md-0 mb-3"><h4>思言財雋</h4><div class="sep light-dark gap-sm"></div><ul><li><a href="https://www.facebook.com/watch/?v=450338242396589" target="_blank" class="fa-icon">【思言財雋呼籲你參加反「送中」大遊行】</a></li></ul></div><div class="col-md col-12"><div style="background:url(img/video/thumbnail4.png) center center no-repeat #444;background-size:cover" class="media-preview"></div></div></div><div class="row"><div class="col-md col-12 mb-md-0 mb-3"><div style="background:url(img/video/thumbnail6.png) center center no-repeat #444;background-size:cover" class="media-preview"></div></div><div class="col-md col-12"><h4>法政匯思</h4><div class="sep light-dark gap-sm"></div><ul><li><a href="https://www.facebook.com/hkplg/videos/2511920872171931/" target="_blank" class="fa-icon">To international community in Hong Kong and around the world, we need you urgently!</a></li><li><a href="https://www.facebook.com/watch/?v=902872436725462" target="_blank" class="fa-icon">【China’s Trojan horse: Hong Kong’s new extradition arrangement puts foreigners at risk】</a></li></ul></div></div></div></div><div id="news" class="section section-news bg-dark text-light"><div class="container"><h1 class="text-center mb-0">最新消息</h1><p class="lead text-center mb-5"><a href="https://www.collaction.hk/s/extradition/objective" target="blank"><small>Powered by Collaction</small></a></p><div id="articles" class="pt-3"></div><div class="text-center"><button id="load-more" class="btn btn-sm btn-light">顯示更多</button></div></div></div><div class="section section-petition bg-danger text-light"><div class="inner text-center"><script>fetch('https://sign-counter-prod-antiextradition-y3b3kusenf.web.kintohub.com/list?checked=true')
+</script></head><body><div id="fb-root" class="text-center"><script async defer crossorigin="anonymous" src="https://connect.facebook.net/en_US/sdk.js#xfbml=1&amp;version=v3.3"></script></div><div class="jumbotron text-light position-relative d-flex align-items-center"><div class="container"><h1 class="mb-2 text-center font-weight-bolder">送中惡法一過</h1><h1 class="mb-4 text-center font-weight-bolder">香港 ENDGAME</h1><div class="mb-3 text-center"><a href="/index-en.html" class="btn btn-info py-1 mr-1">English</a><a href="/index-jp.html" class="btn btn-info py-1 mr-1">日本語</a><a href="/index-ko.html" class="btn btn-info py-1 mr-1">한국어</a></div><div class="text-center"><div data-href="https://www.facebook.com/g0vhk.io" data-width="" data-layout="button_count" data-action="like" data-size="large" data-show-faces="true" data-share="false" class="fb-like"></div></div><hr class="bg-white"><p class="text-justify">一旦通過了《逃犯條例》修訂，香港人及<b><u>任何逗留在香港的人</u></b>都有機會被指違反中國法律，被引渡返中國並將會在缺乏公平審訊的情況下受審。</p><div class="position-absolute d-flex flex-column align-items-center btn-scroll-down-wrapper"><div class="btn-scroll-down"><div class="chevron"></div><div class="chevron"></div><div class="chevron"></div></div><div class="text">向下滑動</div></div></div></div><div class="section section-why bg-info text-light"><div class="container"><div class="row"><div class="col-md-6 order-0 order-md-0"><h2 class="text-center">民間人權陣線 <br> 7.1 遊行</h2></div><div class="col-md-6 order-2 order-md-0"><h2 class="text-center mt-5 mt-md-0">被捕後法律支援</h2></div><div class="col-md-6 order-1 order-md-2"><img src="/img/71.jpg" class="w-100"></div><div class="col-md-6 order-3"><img src="/img/legal_support.jpg" class="w-100"></div></div></div></div><div class="section section-why bg-warning"><div class="text-center"><h2>多國語示影片</h2></div><br><div class="row"><div class="col"><h5>中文</h5><a href="https://www.youtube.com/watch?v=Iwxt5qH2Vto" target="_blank"><img src="img/video/i18n/ch.jpg" style="max-width:100%"></a></div><div class="col"><h5>英文</h5><a href="https://www.youtube.com/watch?v=RXAHywPLaD8" target="_blank"><img src="img/video/i18n/en.jpg" style="max-width:100%"></a></div><div class="col"><h5>日文</h5><a href="https://www.youtube.com/watch?v=KH4FjILxiUM" target="_blank"><img src="img/video/i18n/jp.jpg" style="max-width:100%"></a></div><div class="col"><h5>國語</h5><a href="https://www.youtube.com/watch?v=XMRs0RQpBIo" target="_blank"><img src="img/video/i18n/tw.jpg" style="max-width:100%"></a></div></div><div class="row"><div class="col"><h5>法文</h5><a href="https://www.youtube.com/watch?v=606l0zgq2xk" target="_blank"><img src="img/video/i18n/fr.jpg" style="max-width:100%"></a></div><div class="col"><h5>德文</h5><a href="https://www.youtube.com/watch?v=VC8Btg8xwI4" target="_blank"><img src="img/video/i18n/ger.jpg" style="max-width:100%"></a></div><div class="col"><h5>意文</h5><a href="https://www.youtube.com/watch?v=movMqfIioL4" target="_blank"><img src="img/video/i18n/it.jpg" style="max-width:100%"></a></div><div class="col"></div></div><div class="row"><div class="col"><div class="text-center"><br><br><h3><a href="https://www.youtube.com/channel/UCKnyEeutNfjo7khaI78jdew/videos" target="_blank">更多 </a></h3></div></div></div></div><div class="section section-telegram bg-telegram text-light"><div class="inner"><div class="text-center"><h2>Telegram <img src="/img/telegram.png" width="128"></h2></div><div class="text-center"><a href="https://t.me/CivilHumanRightsFront" class="btn btn-warning link fa-icon">民間人權陣線資訊頻道 </a><a href="https://t.me/joinchat/AAAAAFKLi0fTZiWg0bGwjA" class="btn btn-warning link fa-icon">[反送中]Fact Check Channel </a><a href="https://t.me/hkSupport_bot" class="btn btn-warning link fa-icon">hkSupport</a><a href="https://t.me/g0vhk" class="btn btn-warning link fa-icon"> g0vhk</a></div></div></div><div class="section section-learn-more bg-danger py-4"><div class="text-center text-white">⬇⬇⬇ 往下了解更多</div></div><div class="section section-why bg-light"><div class="inner"><div class="text-center"><h2>為什麼要反對《逃犯條例》</h2></div><p>一旦通過了《逃犯條例》修訂，<b>任何人</b>在香港都有機會被指違反中國法律，被引渡返中國。<b>香港人及任何逗留在香港的人</b>將會在缺乏公平審訊的情況下受審。</p><ul><li>《逃犯條例》修訂影響香港各界，<b>包括商界、新聞界，以及來港旅客。</b><ul><li>一旦通過修訂，任何入境香港的旅客都有機會被引渡返中國。此外，記者如果在中國採訪政治敏感的新聞，就算沒有被公安帶走，這些記者返香港後，有可能再被引渡返中國。</li></ul></li><li>中國經常用<b>非政治罪名去包裝事件，繼而拘捕政治犯。</b><ul><li>中國指銅鑼灣書店店主桂民海撞車撞死人後潛逃，因而捉拿他。</li><li>維權藝術家艾未未流亡外國前，中國指他逃稅，因而關押他。</li></ul></li><li>立法會的非建制派議員一直拒絕引渡逃犯因為<b>中國並無「公平審訊」</b></li><li>《逃犯條例》修訂不能解決陳同佳案<ul><li>台灣發生的凶殺案，是<b>不需要向中國移交逃犯</b></li><li>香港絕對可以和台灣簽一次性或是長期移交逃犯協議。台灣陸委會也表明，《逃犯條例》修例有可能令赴港或在港台灣人被移送到中國，在這項威脅未能解除時，台灣不會同意移交陳同佳。換言之，即使《逃犯條例》通過，港府也難以把陳同佳送返台灣受審。</li><li>在台灣，陸委會表明不會在《逃犯條例》修法前提下與港府協商，未排除赴港或在港台灣人被移送到大陸的威脅之前，即使香港通過修例，台灣政府亦不會同意移交陳同佳。 </li></ul></li></ul></div></div><div class="section section-video bg-warning"><div class="inner"><div class="text-center"><h2>影片</h2></div><br><div class="row mb-5 pb-4"><div class="col-md col-12 mb-md-0 mb-3"><div style="background:url(img/video/thumbnail1.png) center center no-repeat #444;background-size:cover" class="media-preview"></div></div><div class="col-md col-12"><h4>八十後浪</h4><div class="sep light-dark gap-sm"></div><ul><li><a href="https://www.facebook.com/watch/?v=630724980778241" target="_blank" class="fa-icon">【香港人・六月九．行出嚟！】</a></li><li><a href="https://www.facebook.com/watch/?v=365026624364523" target="_blank" class="fa-icon">【香港人．六月九．行出嚟－法律篇（一）】</a></li><li><a href="https://www.facebook.com/watch/?v=2111174248981335" target="_blank" class="fa-icon">【香港人．六月九．行出嚟－法律篇（二）】</a></li><li><a href="https://www.facebook.com/watch/?v=612761825868585" target="_blank" class="fa-icon">【香港人・六月九・行出嚟－商界篇】</a></li></ul></div></div><div class="row mb-5 pb-4"><div class="col-md col-12 mb-md-0 mb-3"><h4>思言財雋</h4><div class="sep light-dark gap-sm"></div><ul><li><a href="https://www.facebook.com/watch/?v=450338242396589" target="_blank" class="fa-icon">【思言財雋呼籲你參加反「送中」大遊行】</a></li></ul></div><div class="col-md col-12"><div style="background:url(img/video/thumbnail4.png) center center no-repeat #444;background-size:cover" class="media-preview"></div></div></div><div class="row"><div class="col-md col-12 mb-md-0 mb-3"><div style="background:url(img/video/thumbnail6.png) center center no-repeat #444;background-size:cover" class="media-preview"></div></div><div class="col-md col-12"><h4>法政匯思</h4><div class="sep light-dark gap-sm"></div><ul><li><a href="https://www.facebook.com/hkplg/videos/2511920872171931/" target="_blank" class="fa-icon">To international community in Hong Kong and around the world, we need you urgently!</a></li><li><a href="https://www.facebook.com/watch/?v=902872436725462" target="_blank" class="fa-icon">【China’s Trojan horse: Hong Kong’s new extradition arrangement puts foreigners at risk】</a></li></ul></div></div></div></div><div id="news" class="section section-news bg-dark text-light"><div class="container"><h1 class="text-center mb-0">最新消息</h1><p class="lead text-center mb-5"><a href="https://www.collaction.hk/s/extradition/objective" target="blank"><small>Powered by Collaction</small></a></p><div id="articles" class="pt-3"></div><div class="text-center"><button id="load-more" class="btn btn-sm btn-light">顯示更多</button></div></div></div><div class="section section-petition bg-danger text-light"><div class="inner text-center"><script>fetch('https://sign-counter-prod-antiextradition-y3b3kusenf.web.kintohub.com/list?checked=true')
 .then(response => response.json())
 .then(signStat => {
   document.getElementById("signed_count").innerHTML = signStat.meta.total.toString().replace(/\B(?=(\d{3})+(?!\d))/g, ",")
